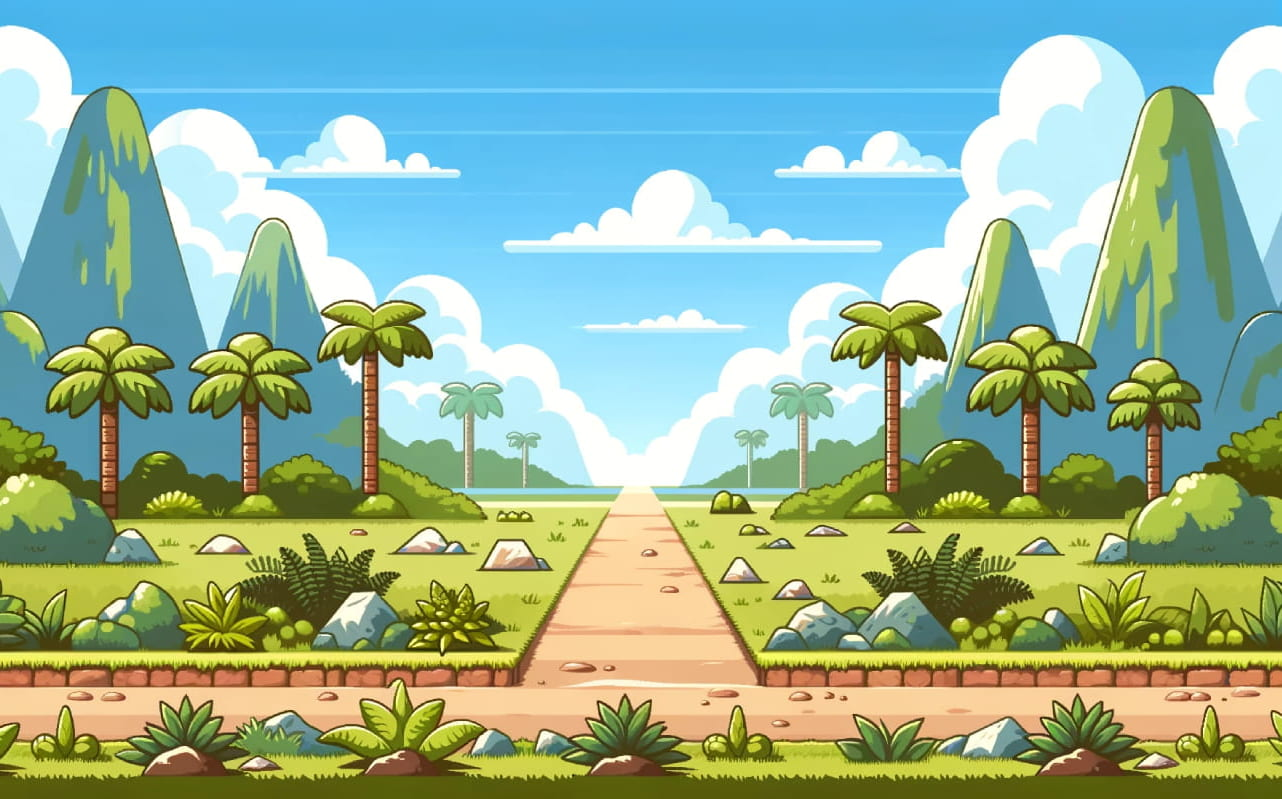
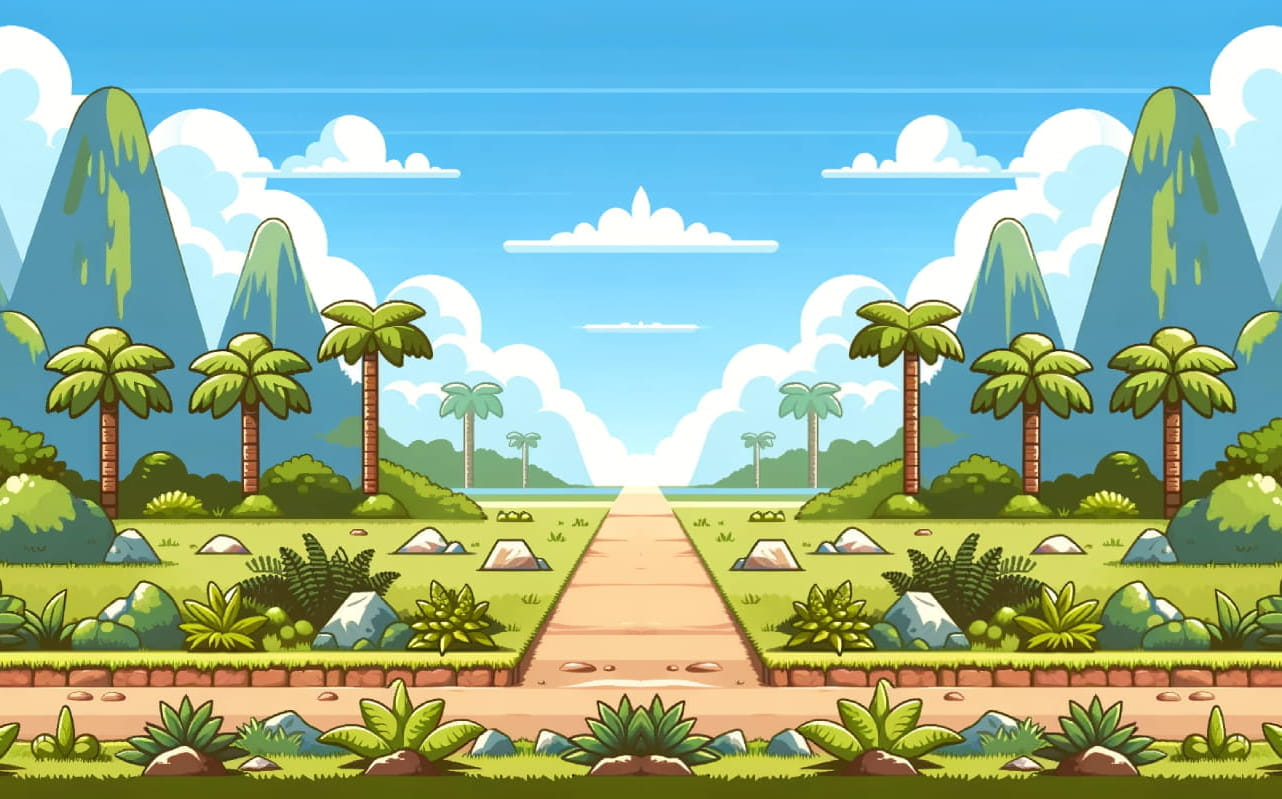
Version 1.0.7
1. 优化背景
2. 优化道具速度和难度增加一级

Changed region(s): [[0.4992, 0.03, 1.0, 0.9912], [0.9984, 0.2403, 1.0, 0.2703]]

diff --git a/js/scene/infinite.js b/js/scene/infinite.js
@@ -152,7 +152,7 @@ export default class Infinite {
       height: 32 * scaleY,
       speed: this.road.speed,
       visible: false,
-      amplitude: 3,
+      amplitude: 3 * scaleY,
       frequency: 0.1
     };
     // 初始化分数
@@ -161,6 +161,7 @@ export default class Infinite {
     this.speedIncreasedStageFirst = false;
     this.speedIncreasedStageSecond = false;
     this.speedIncreasedStageThird = false;
+    this.speedIncreasedStageFourth = false;
     // 屏幕变黑遮照标志
     this.screenDarkness = 0;
     this.isScreenDark = false;
@@ -182,7 +183,7 @@ export default class Infinite {
       this.context.drawImage(this.backgroundImage, this.backgroundInfo.x, 0, this.backgroundImage.width * scaleX, this.canvas.height);
       // 绘制第二张图片以实现循环滚动效果
       if (this.backgroundInfo.x < 0) {
-        this.context.drawImage(this.backgroundImage, this.backgroundInfo.x + this.backgroundImage.width * scaleX, 0, this.backgroundImage.width * scaleX, this.canvas.height);
+        this.context.drawImage(this.backgroundImage, this.backgroundInfo.x + this.backgroundImage.width * scaleX,  0, this.backgroundImage.width * scaleX, this.canvas.height);
       }
     }
   }
@@ -200,6 +201,7 @@ export default class Infinite {
       this.context.fillRect(0, 0, this.canvas.width, this.canvas.height);
     }
   }
+  // 更新黑色遮罩
   updateDrawBlackScreen() {
     if (this.score > 7000 && this.score <= 7003) {
       soundManager.play('lightning', 200);
@@ -210,6 +212,17 @@ export default class Infinite {
     } else if (this.score >= 7300 && this.score < 7600) {
       this.screenDarkness = Math.max(1 - (this.score - 7300) / (7600 - 7300), 0);
     } else if (this.score >= 7600) {
+      this.screenDarkness = 0;
+    }
+    if (this.score > 35000 && this.score <= 35009) {
+      soundManager.play('lightning', 200);
+    }
+    if (this.score >= 35000 && this.score < 35500) {
+      this.isScreenDark = true;
+      this.screenDarkness = Math.min((this.score - 35000) / (35500 - 35000), 1);
+    } else if (this.score >= 35500 && this.score < 36000) {
+      this.screenDarkness = Math.max(1 - (this.score - 35500) / (36000 - 35500), 0);
+    } else if (this.score >= 36000) {
       this.screenDarkness = 0;
     }
   }
@@ -252,9 +265,9 @@ export default class Infinite {
   // 绘制道路
   drawRoad() {
     if (this.roadImage.complete) {
-      this.context.drawImage(this.roadImage, this.road.x, this.road.y);
+      this.context.drawImage(this.roadImage, this.road.x, this.road.y, this.road.width, this.road.height);
       if (this.road.x < 0) {
-        this.context.drawImage(this.roadImage, this.road.x + this.road.width, this.road.y);
+        this.context.drawImage(this.roadImage, this.road.x + this.road.width, this.road.y, this.road.width, this.road.height);
       }
     }
   }
@@ -268,19 +281,33 @@ export default class Infinite {
     // 检查分数是否达到6000分，并且尚未加速
     if (this.score >= 6000 && !this.speedIncreasedStageFirst) {
       this.road.speed += 1 * scaleX;
+      this.poisonMushroom.speed += 1 * scaleX;
+      this.powerUp.speed += 1 * scaleX;
       this.speedIncreasedStageFirst = true;
       this.messageDisplayTime = this.messageDuration;
     }
     // 检查分数是否达到10000分，并且尚未加速
     if (this.score >= 10000 && !this.speedIncreasedStageSecond) {
       this.road.speed += 1 * scaleX;
+      this.poisonMushroom.speed += 1 * scaleX;
+      this.powerUp.speed += 1 * scaleX;
       this.speedIncreasedStageSecond = true;
       this.messageDisplayTime = this.messageDuration;
     }
     // 检查分数是否达到18000分，并且尚未加速
     if (this.score >= 18000 && !this.speedIncreasedStageThird) {
       this.road.speed += 1 * scaleX;
+      this.poisonMushroom.speed += 1 * scaleX;
+      this.powerUp.speed += 1 * scaleX;
       this.speedIncreasedStageThird = true;
+      this.messageDisplayTime = this.messageDuration;
+    }
+    // 检查分数是否达到30000分，并且尚未加速
+    if (this.score >= 30000 && !this.speedIncreasedStageFourth) {
+      this.road.speed += 1 * scaleX;
+      this.poisonMushroom.speed += 1 * scaleX;
+      this.powerUp.speed += 1 * scaleX;
+      this.speedIncreasedStageFourth = true;
       this.messageDisplayTime = this.messageDuration;
     }
     // 如果消息正在显示，减少显示时间
@@ -314,11 +341,11 @@ export default class Infinite {
     this.trapInfo.trapTimer++;
     // 当计时器达到间隔时，生成新的陷阱
     if (this.trapInfo.trapTimer >= this.trapInfo.trapInterval) {
-      const numberOfTraps = Math.floor(Math.random() * 3) + 1;
+      const numberOfTraps = Math.floor(Math.random() * 4) + 1;
       let lastTrapX = this.canvas.width;
       for (let i = 0; i < numberOfTraps; i++) {
         // 为每个陷阱计算随机间隔
-        const gap = Math.floor(Math.random() * 60 * scaleX) + 200; // 间隔（50到200像素之间）
+        const gap = Math.floor(Math.random() * 90 * scaleX) + 200; // 间隔（50到200像素之间）
         lastTrapX += gap;
         const imageIndex = Math.floor(Math.random() * this.trapImages.length);
         const trapImg = this.trapImages[imageIndex];
@@ -474,8 +501,8 @@ export default class Infinite {
     if (this.powerUp.visible && !this.powerUp.obtained) {
       if (this.dinoInfo.x < this.powerUp.x + this.powerUp.width &&
         this.dinoInfo.x + this.dinoInfo.width > this.powerUp.x &&
-        this.dinoInfo.y < this.powerUp.y + this.powerUp.height &&
-        this.dinoInfo.y + this.dinoInfo.height > this.powerUp.y) {
+        this.dinoInfo.y - 20 * scaleY < this.powerUp.y + this.powerUp.height &&
+        this.dinoInfo.y + this.dinoInfo.height - 20 * scaleY > this.powerUp.y) {
         this.powerUp.obtained = true;
         this.powerUp.powerUpCount = 1; // 设置道具数量为1
         this.dinoInfo.canTripleJump = true; // 允许三级跳
@@ -486,8 +513,8 @@ export default class Infinite {
     if (this.poisonMushroom.visible && !this.poisonMushroom.obtained) {
       if (this.dinoInfo.x < this.poisonMushroom.x + this.poisonMushroom.width &&
         this.dinoInfo.x + this.dinoInfo.width / 2 > this.poisonMushroom.x &&
-        this.dinoInfo.y < this.poisonMushroom.y + this.poisonMushroom.height &&
-        this.dinoInfo.y + this.dinoInfo.height > this.poisonMushroom.y + 5 * scaleY) {
+        this.dinoInfo.y - 20 * scaleY < this.poisonMushroom.y + this.poisonMushroom.height &&
+        this.dinoInfo.y + this.dinoInfo.height - 20 * scaleY > this.poisonMushroom.y) {
         // 碰撞发生
         this.poisonMushroom.obtained = true;
         this.originalGravity = this.dinoInfo.gravity;
@@ -871,7 +898,7 @@ export default class Infinite {
       height: 32 * scaleY,
       speed: this.road.speed,
       visible: false,
-      amplitude: 3,
+      amplitude: 3 * scaleY,
       frequency: 0.1
     };
     this.useWing = false;
@@ -889,6 +916,7 @@ export default class Infinite {
     this.speedIncreasedStageFirst = false;
     this.speedIncreasedStageSecond = false;
     this.speedIncreasedStageThird = false;
+    this.speedIncreasedStageFourth = false;
     // 重新开始按钮
     this.buttonStartInfo = "";
     // 分享好友按钮

diff --git a/js/scene/settings.js b/js/scene/settings.js
@@ -133,8 +133,8 @@ export default class Settings {
       // 开关状态
       const isSwitchOn = wx.getStorageSync('musicEnabled') ? true : wx.getStorageSync('musicEnabled');
       const isBackMusicOn = wx.getStorageSync('backgroundMusicEnabled') ? true : wx.getStorageSync('backgroundMusicEnabled');
-      const textWidth = this.context.measureText('V 1.0.6').width;
-      this.context.fillText('V 1.0.6', switchX + switchWidth - textWidth / 2, iconY + iconSize / 2);
+      const textWidth = this.context.measureText('V 1.0.7').width;
+      this.context.fillText('V 1.0.7', switchX + switchWidth - textWidth / 2, iconY + iconSize / 2);
       // 绘制圆角矩形背景
       this.context.fillStyle = isSwitchOn ? '#4CAF50' : '#cccccc';
       drawRoundedRectNoStrike(this.context, switchX, switchY, switchWidth, switchHeight, borderRadius, '#000000', 3);
@@ -159,8 +159,8 @@ export default class Settings {
     } else if (this.selectedIndex === 1) {
       const fontSize = 16 * scaleX;
       this.context.font = `${fontSize}px Arial`;
-      const arr = ['版本 1.0.6', '降低难度，延长可玩性', '优化运行稳定性', '修复 bugs', '', '版本 1.0.5', '优化程序稳定性', '逃出监牢增加明显终点标识', '优化精简程序运行', '','版本 1.0.4', '修复PC端无法适配问题', '', '版本 1.0.3', '增加游戏开篇画面和音效', '增加小恐龙闯关失败后的失败状态', '', '版本 1.0.2', '增加道具屋，通过看广告兑换道具', '', '版本 1.0.1', '关卡增加障碍物种类和黑夜变换', '增加历史成绩榜', '', '版本 1.0.0', 'Demo 版本发布'];
-      const list = ['2024-03-29', '', '', '', '','2024-03-18', '', '', '', '', '2024-03-15', '', '', '2024-01-30', '', '', '','2024-01-27', '', '', '2024-01-22', '', '', '', '2024-01-08', ''];
+      const arr = ['版本 1.0.7', '道具出现速度优化', '关卡中加速水平增加一种', '', '版本 1.0.6', '降低难度，延长可玩性', '优化运行稳定性', '修复 bugs', '', '版本 1.0.5', '优化程序稳定性', '逃出监牢增加明显终点标识', '优化精简程序运行', '','版本 1.0.4', '修复PC端无法适配问题', '', '版本 1.0.3', '增加游戏开篇画面和音效', '增加小恐龙闯关失败后的失败状态', '', '版本 1.0.2', '增加道具屋，通过看广告兑换道具', '', '版本 1.0.1', '关卡增加障碍物种类和黑夜变换', '增加历史成绩榜', '', '版本 1.0.0', 'Demo 版本发布'];
+      const list = ['2024-03-31', '', '', '', '2024-03-29', '', '', '', '','2024-03-18', '', '', '', '', '2024-03-15', '', '', '2024-01-30', '', '', '','2024-01-27', '', '', '2024-01-22', '', '', '', '2024-01-08', ''];
       // 计算文本高度和总内容高度
       const textHeight = fontSize * 1.2;
       const contentHeight = arr.length * textHeight + 20 * scaleY;
